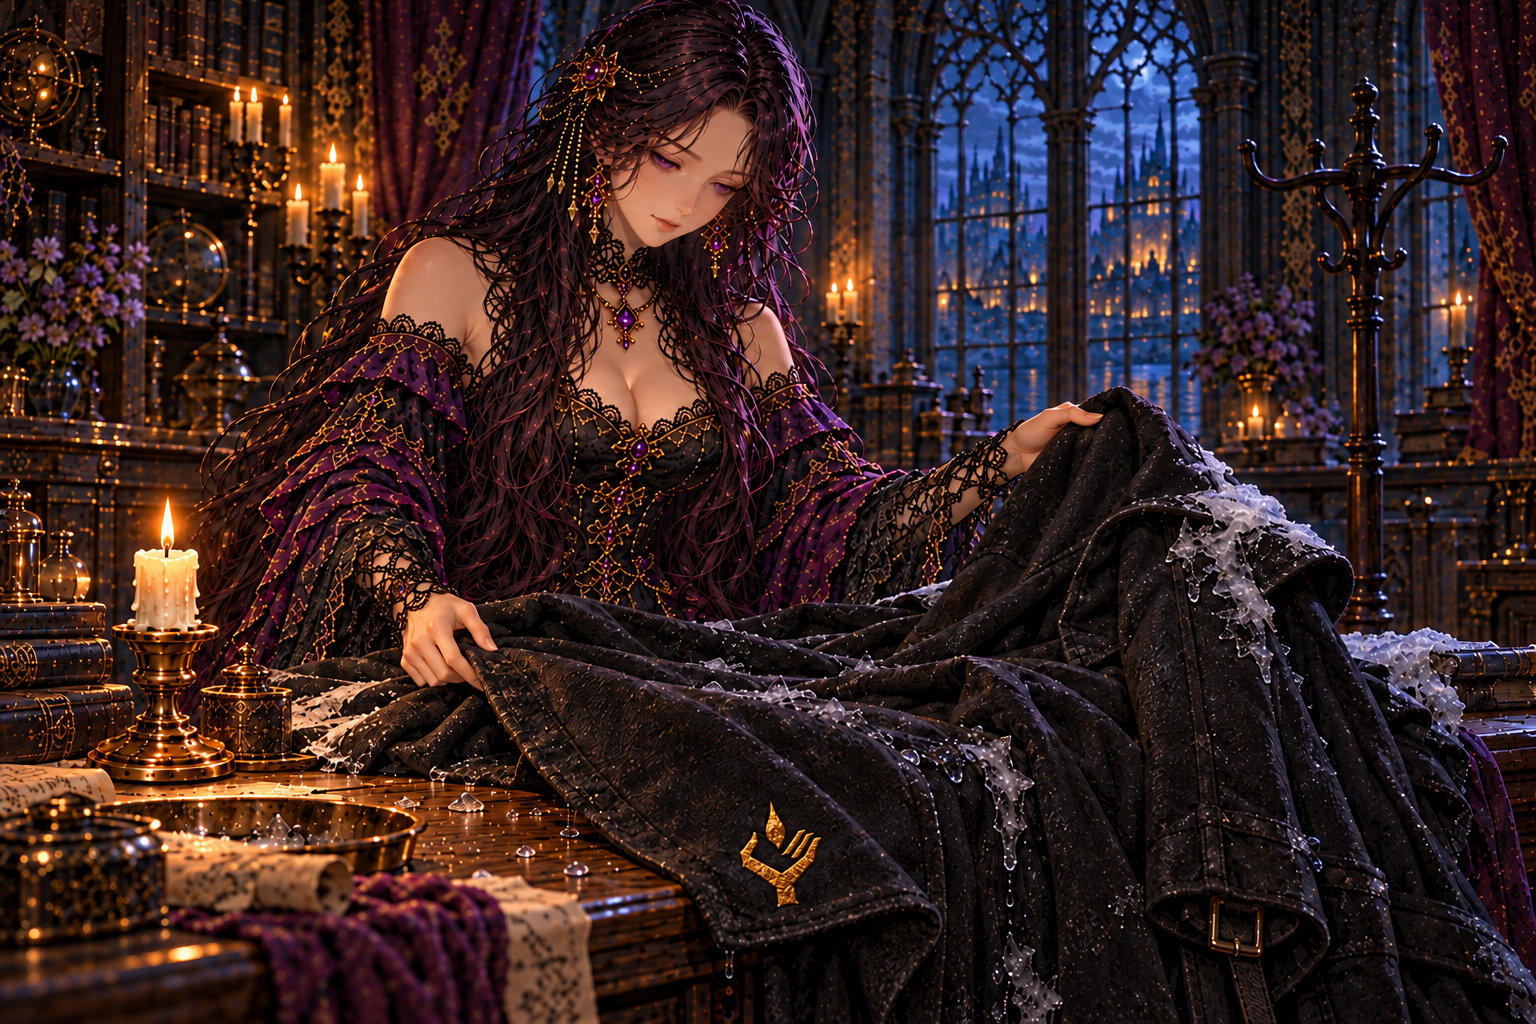
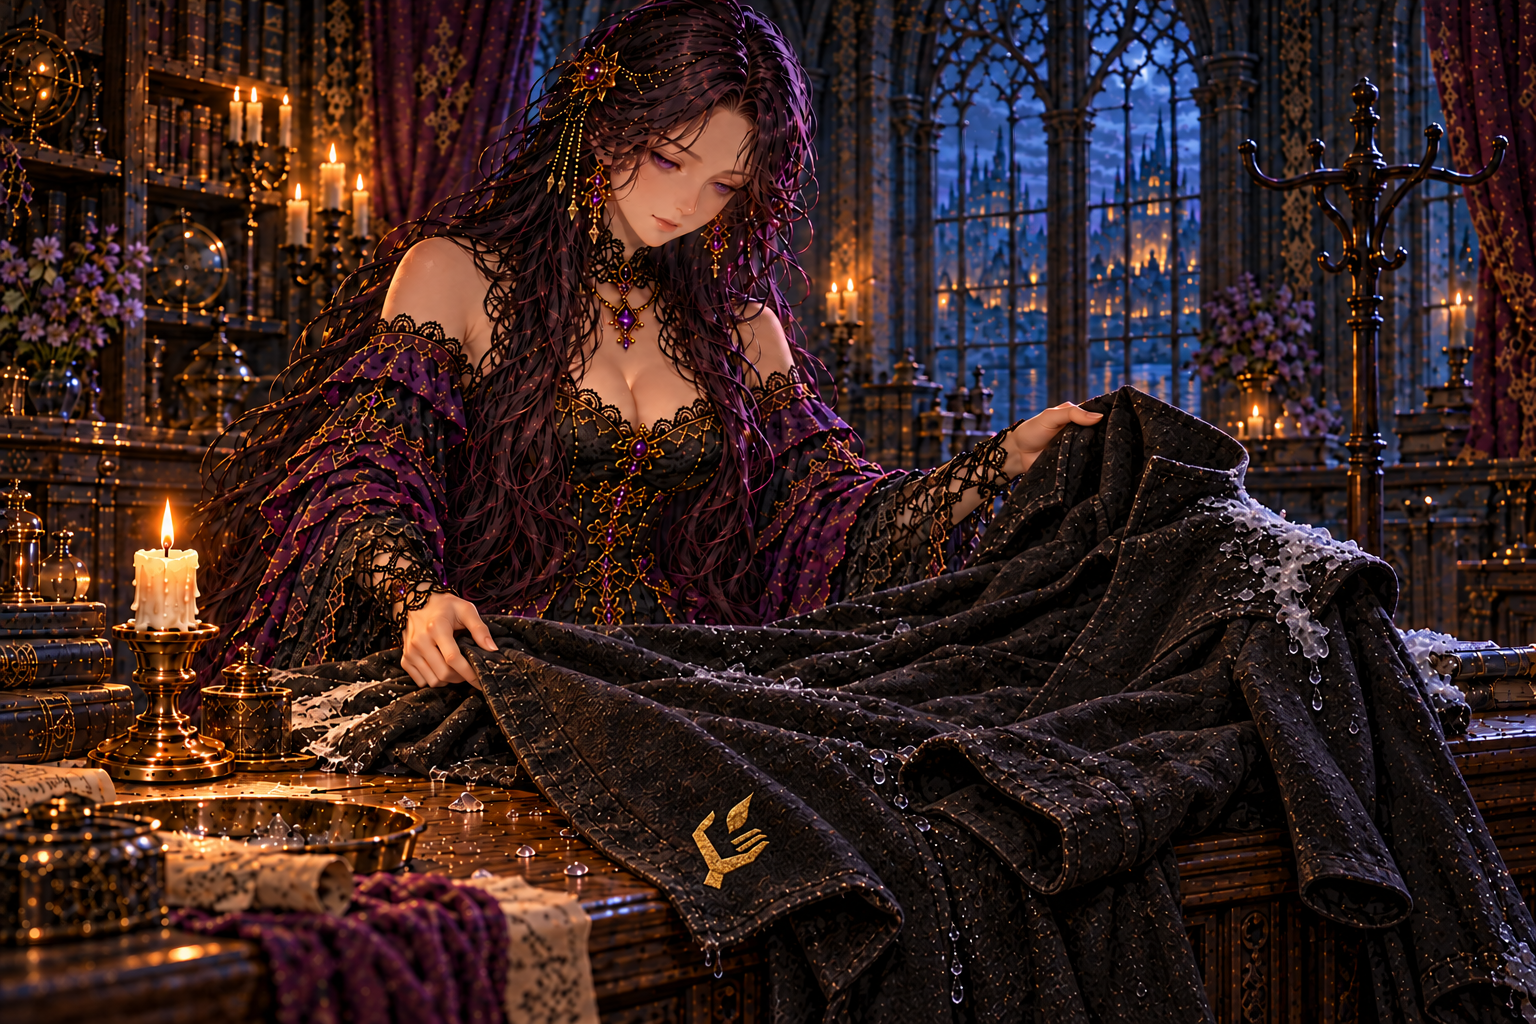
師の外套の形と裾の印の向きを修正

diff --git a/docs/art/codex-story-art-brief.md b/docs/art/codex-story-art-brief.md
@@ -219,6 +219,14 @@ Character reference sheet on a plain dark slate-blue background with soft even l
 
 ### A. 必須 (物語の筋や正典と食い違う)
 
+**A-43. 第六章 irene_coat「師の外套」外套の形と印の向き** `art/story-review/chapter6/irene_coat.png` (済)
+- ユーザー承認の修正方針 (2026-10-17): 承認済み `docs/art/story-refs/ordo.png` の高い襟・左右の袖・長い身頃がつながる黒外套へ整える。肩と胴を卓上に横たえ、袖を自然に折り、イレーヌが裾を持ち上げる。重なった別の衣や腰帯に見える形を整理する。
+- 裾の小さな金糸の印は一つだけ。`docs/art/story-refs/sigil.png` の形を保ち、手首を裾の端へ、炎の先を襟・肩側へ向け、布の傾き・折れに沿わせる。画面の上下を基準に直立させない。
+- 保つもの: イレーヌの顔・髪・衣装・手、燭台、背景、構図、暖色と寒色の光、黒布の古びた質感、氷と水滴。
+```text
+...except: correct ONLY the recovered black travel coat and its single small gold-thread hem crest. Match docs/art/story-refs/ordo.png: ONE empty slim long worn black wool coat, with a high collar, two recognizable long sleeves and continuous long body panels. Make its construction readable on the table: the collar and shoulders lie at image-right beneath Irene's raised hand, the body extends diagonally toward the lower-left foreground, two empty sleeves are naturally folded beside the body, and Irene's lower hand lifts ONE bottom hem corner. Remove confusing redundant garment layers and the loose buckled belt. Keep the coat empty, with no torso, limbs or person inside. Use the approved geometric crest in docs/art/story-refs/sigil.png exactly, with ONE left thumb, THREE parallel right finger projections, a short wrist and ONE detached teardrop flame. Embroider it only once, small, on the lifted bottom hem. Orient the crest in the COAT'S own coordinates: its wrist points toward the nearby bottom hem edge, while its flame tip points along the body toward the collar and shoulders at image-right/upper-right. Rotate and foreshorten the entire symbol with the lifted fabric plane; do not leave it upright relative to the screen and do not mirror it. Preserve Irene's exact face, hair, costume, hands and pose, the existing compact brass candlestick and white candle, framing, background and fine pixel texture, warm amber and cool blue lighting. Keep natural ice on the shoulder and one edge and beads of meltwater. No extra embroidery, gold trim, satchel, text or new people.
+```
+
 **A-41. 館の灯をオープニングの燭台へ統一** (済) `art/story-review/prologue/irene-soul-lamp.png`・`art/story-review/chapter1/irene_boons.png`・`art/story-review/chapter1/irene_familiar.png`・`art/story-review/chapter1/irene_fort.png`・`art/story-review/chapter2/irene_roots.png`・`art/story-review/chapter2/irene_sera.png`・`art/story-review/chapter3/irene_undercity.png`・`art/story-review/chapter2/irene_omokage.png`・`art/story-review/chapter3/irene_trust.png`・`art/story-review/chapter3/ch3_end.png`・`art/story-review/chapter4/ch4_end.png`・`art/story-review/chapter5/irene_abyss.png`・`art/story-review/chapter5/irene_furnace.png`・`art/story-review/chapter5/irene_husks.png`・`art/story-review/chapter6/irene_coat.png`・`art/story-review/chapter6/irene_frozen.png`・`art/story-review/chapter6/irene_lineage.png`・`art/story-review/chapter7/irene_order.png`・`art/story-review/chapter8/irene_bell.png`・`art/story-review/chapter8/irene_rain.png`・`art/story-review/chapter10/irene_names.png`・`art/story-review/chapter10/irene_candle.png`・`art/story-review/chapter11/irene_lastpage.png`・`art/story-review/chapter11/irene_onlyonce.png`・`art/story-review/chapter11/irene_why.png`
 
 - ユーザー指定 (2026-10-16): オープニング第六幕「師の灯」を基準に、主役の燭台の台座・支柱・受け皿・白い蝋燭の太さを統一する。人物と本文は保つ。背景の照明と青いランタンは対象外。
